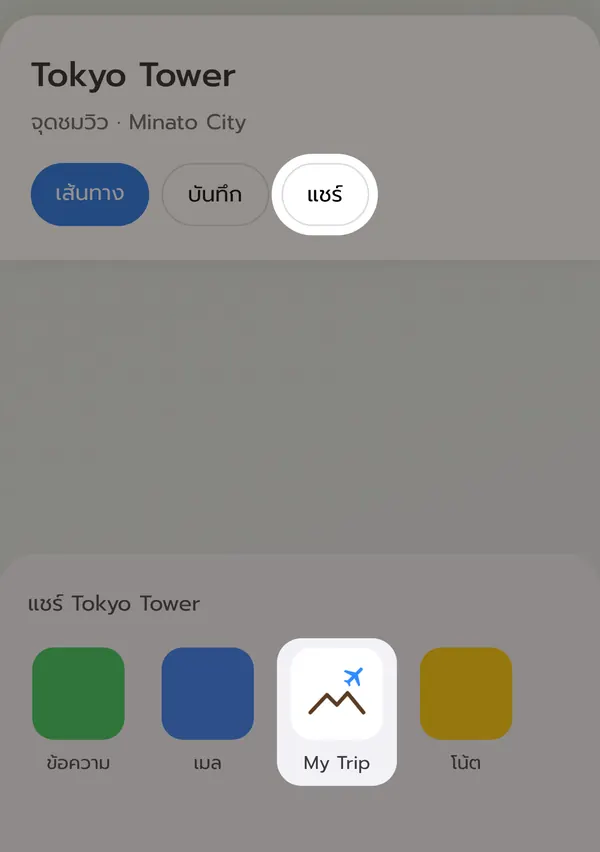
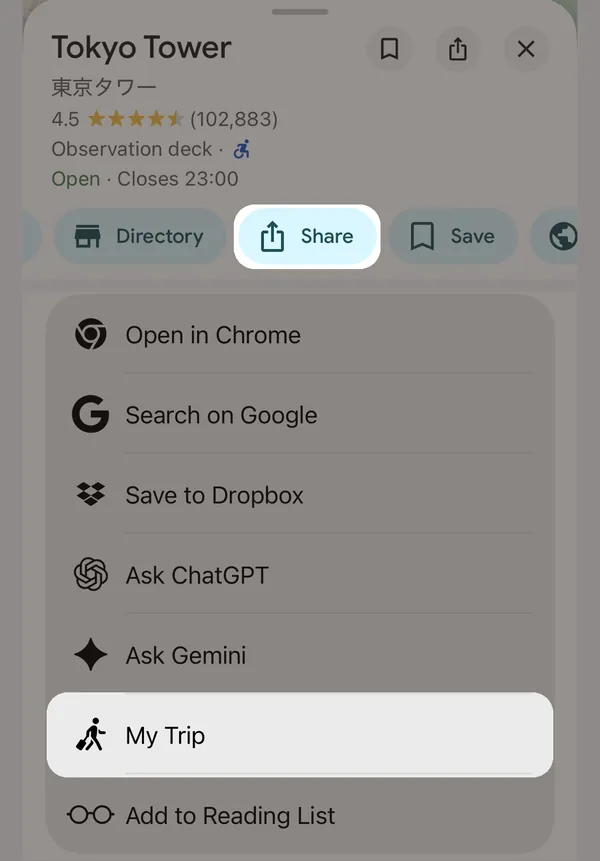
How-to guide: trip first then bookings then Google Maps; finger-follow swipe that always settles; real Google Maps share picture
Claude-Session: https://claude.ai/code/session_015BRmtB3ykkZmhpqNqRbF5g

diff --git a/index.html b/index.html
@@ -209,8 +209,8 @@ html.kb .dock{bottom:calc(6px + var(--kb,0px))}
 .guide-card{width:100%;max-width:380px;max-height:calc(100% - 24px);background:var(--surface);border-radius:28px;box-shadow:0 18px 50px rgba(20,19,26,.28);display:flex;flex-direction:column;gap:12px;padding:14px 0 18px;overflow:hidden;animation:guideIn .22s ease-out}
 @keyframes guideIn{from{opacity:0;transform:translateY(10px) scale(.98)}to{opacity:1;transform:none}}
 .guide-top{display:flex;align-items:center;justify-content:space-between;min-height:30px;padding:0 18px}.guide-n{font-size:12.5px;color:var(--muted)}
-.guide-track{display:flex;overflow-x:auto;scroll-snap-type:x mandatory;-webkit-overflow-scrolling:touch;scrollbar-width:none;overscroll-behavior-x:contain;min-height:0}.guide-track::-webkit-scrollbar{display:none}
-.guide-slide{flex:0 0 100%;scroll-snap-align:center;scroll-snap-stop:always;display:flex;flex-direction:column;align-items:center;text-align:center;gap:6px;padding:0 18px;box-sizing:border-box}
+.guide-view{overflow:hidden;touch-action:pan-y;min-height:0}.guide-track{display:flex;will-change:transform}
+.guide-slide{flex:0 0 100%;display:flex;flex-direction:column;align-items:center;text-align:center;gap:6px;padding:0 18px;box-sizing:border-box;user-select:none;-webkit-user-select:none}
 .guide-slide img{width:100%;max-height:min(42vh,360px);aspect-ratio:390/560;object-fit:contain;border-radius:18px;background:var(--tile);box-shadow:inset 0 0 0 1px var(--line)}
 .guide-slide h2{margin:8px 0 0;font-family:var(--display);font-size:19px;font-weight:500}.guide-slide p{margin:0;color:var(--muted);font-size:13.5px;line-height:1.55}
 .guide-dots{display:flex;justify-content:center;gap:5px}.guide-dots i{width:6px;height:6px;border-radius:99px;background:var(--line);transition:width .2s,background .2s}.guide-dots i.on{width:18px;background:var(--accent)}
@@ -1134,7 +1134,7 @@ async function refreshTrip(id){
     s.style.transition=anim?'opacity .2s,transform .25s ease':'none';s.style.opacity=d>14?Math.min(1,(d-14)/30):0;s.style.transform=`translateY(${Math.max(0,d/2-11)}px)`;
     s.classList.toggle('spin',loading);c.setAttribute('stroke-dasharray',loading?'70 100':`${Math.min(80,d/GO*80)} 100`);s.classList.toggle('ready',d>=GO&&!loading);};
   document.addEventListener('touchstart',e=>{y0=null;dy=0;if(busy||e.touches.length!==1||window.scrollY>2||!page())return;
-    if(document.querySelector('.scrim')||e.target.closest?.('.dock-body,.sheet,.dock.open,input,textarea,select,.exp-seg,[data-swipe],[data-guide-track]'))return;
+    if(document.querySelector('.scrim')||e.target.closest?.('.dock-body,.sheet,.dock.open,input,textarea,select,.exp-seg,[data-swipe],[data-guide-view]'))return;
     y0=e.touches[0].clientY;t0=Date.now();},{passive:true});
   document.addEventListener('touchmove',e=>{if(y0==null)return;const d=e.touches[0].clientY-y0;
     if(d<=0||window.scrollY>2||(dy===0&&Date.now()-t0>350)){y0=null;if(dy)show(0,{anim:true});dy=0;return;}   // a long press is a drag, not a pull
@@ -2352,43 +2352,56 @@ function shareSection(){
 }
 /* how to use the app: picture cards shown once to a new person, then kept in the profile sheet */
 const GUIDE = [
-  {t:"เชื่อมกับ Google Maps", d:"กดรูปโปรไฟล์มุมขวาบน → “แชร์เข้าทริป” แล้วทำตามขั้นตอน ทำครั้งเดียว"},
-  {t:"แชร์สถานที่เข้าทริป", d:"ใน Google Maps กด “แชร์” → เลือก My Trip สถานที่จะไปอยู่ในแท็บวางแผน"},
-  {t:"สร้างทริป", d:"กด “สร้างทริป” ใส่ชื่อ และวันไป–กลับ"},
-  {t:"ใส่ตั๋วและที่พัก", d:"แท็บข้อมูล → “เพิ่ม” เลือกรูปหรือ PDF ใบจอง แอปอ่านแล้วใส่ในแผนให้"},
-  {t:"ใส่ที่เที่ยวลงวัน", d:"แท็บวางแผน เลือกวันด้านบน แล้วกด + ที่สถานที่"},
-  {t:"ตั้งเวลา · เรียงลำดับ", d:"แตะเวลาเพื่อตั้งเวลา · กดค้างที่สถานที่แล้วลากเพื่อเรียงใหม่"},
-  {t:"เลือกการเดินทาง", d:"แตะช่องระหว่างสถานที่ แอปหาเส้นทางไว้ให้แล้ว เลือกแบบที่ชอบ"},
-  {t:"ให้ AI ช่วย", d:"แท็บ AI แนะนำที่เที่ยวใกล้แผน หรือรีวิวแผนทั้งวัน"},
-  {t:"ส่งออกเป็นรูป", d:"กด ⋯ มุมขวาบนของทริป → “ส่งออกแผนเที่ยว” ได้ทั้งรูปและ PDF"}
+  {img:3, t:"สร้างทริป", d:"กด “สร้างทริป” ใส่ชื่อ และวันไป–กลับ"},
+  {img:4, t:"ใส่ตั๋วและที่พัก", d:"แท็บข้อมูล → “เพิ่ม” เลือกรูปหรือ PDF ใบจองตั๋วเครื่องบินและโรงแรม แอปอ่านแล้วใส่ในแผนให้"},
+  {img:1, t:"เชื่อมกับ Google Maps", d:"กดรูปโปรไฟล์มุมขวาบน → “แชร์เข้าทริป” แล้วทำตามขั้นตอน ทำครั้งเดียว"},
+  {img:2, t:"แชร์สถานที่เข้าทริป", d:"ใน Google Maps กด “Share” → เลื่อนลงแล้วกด “My Trip” สถานที่จะไปอยู่ในแท็บวางแผน"},
+  {img:5, t:"ใส่ที่เที่ยวลงวัน", d:"แท็บวางแผน เลือกวันด้านบน แล้วกด + ที่สถานที่"},
+  {img:6, t:"ตั้งเวลา · เรียงลำดับ", d:"แตะเวลาเพื่อตั้งเวลา · กดค้างที่สถานที่แล้วลากเพื่อเรียงใหม่"},
+  {img:7, t:"เลือกการเดินทาง", d:"แตะช่องระหว่างสถานที่ แอปหาเส้นทางไว้ให้แล้ว เลือกแบบที่ชอบ"},
+  {img:8, t:"ให้ AI ช่วย", d:"แท็บ AI แนะนำที่เที่ยวใกล้แผน หรือรีวิวแผนทั้งวัน"},
+  {img:9, t:"ส่งออกเป็นรูป", d:"กด ⋯ มุมขวาบนของทริป → “ส่งออกแผนเที่ยว” ได้ทั้งรูปและ PDF"}
 ];
 function vGuide(s){
-  const n = GUIDE.length;
+  const n = GUIDE.length, i = Math.max(0, Math.min(n - 1, s.pos || 0)), last = i === n - 1;
   return `<div class="scrim guide-scrim" data-act="guide-done"><div class="guide-card" role="dialog" aria-modal="true" aria-label="วิธีใช้ My Trip" data-stop="1">
-    <div class="guide-top"><span class="guide-n">1/${n}</span><button class="link-btn" data-act="guide-done">ข้าม</button></div>
-    <div class="guide-track" data-guide-track>${GUIDE.map((g, i) => `<section class="guide-slide" aria-label="${i + 1} จาก ${n}">
-      <img src="guide/${i + 1}.webp?v=2" alt="" width="300" height="280" ${i > 1 ? 'loading="lazy"' : ''} decoding="async">
-      <h2>${g.t}</h2><p>${g.d}</p></section>`).join("")}</div>
-    <div class="guide-dots" aria-hidden="true">${GUIDE.map((_, i) => `<i class="${i ? "" : "on"}"></i>`).join("")}</div>
-    <div class="guide-btns"><button type="button" class="btn ghost" data-act="guide-step" data-d="-1" disabled>ย้อนกลับ</button><button type="button" class="btn primary" data-act="guide-step" data-d="1">ถัดไป</button></div>
+    <div class="guide-top"><span class="guide-n">${i + 1}/${n}</span><button class="link-btn" data-act="guide-done" style="${last ? "visibility:hidden" : ""}">ข้าม</button></div>
+    <div class="guide-view" data-guide-view><div class="guide-track" style="transform:translateX(${-i * 100}%)">${GUIDE.map((g, k) => `<section class="guide-slide" aria-label="${k + 1} จาก ${n}" ${k === i ? "" : 'aria-hidden="true"'}>
+      <img src="guide/${g.img}.webp?v=3" alt="" width="300" height="280" decoding="async" draggable="false">
+      <h2>${g.t}</h2><p>${g.d}</p></section>`).join("")}</div></div>
+    <div class="guide-dots" aria-hidden="true">${GUIDE.map((_, k) => `<i class="${k === i ? "on" : ""}"></i>`).join("")}</div>
+    <div class="guide-btns"><button type="button" class="btn ghost" data-act="guide-step" data-d="-1" ${i ? "" : "disabled"}>ย้อนกลับ</button><button type="button" class="btn primary" data-act="${last ? "guide-done" : "guide-step"}" data-d="1">${last ? "เริ่มใช้งาน" : "ถัดไป"}</button></div>
   </div></div>`;
 }
-/* the cards scroll natively (smooth, with momentum); dots and buttons follow the card in view */
-function guideSync(track){
-  const card = track.closest(".guide-card"); if(!card) return;
-  const i = Math.round(track.scrollLeft / Math.max(1, track.clientWidth)), last = i >= GUIDE.length - 1;
-  if(S.sheet?.kind === "guide") S.sheet.pos = i;
-  card.querySelectorAll(".guide-dots i").forEach((d, n) => d.classList.toggle("on", n === i));
-  card.querySelector(".guide-n").textContent = (i + 1) + "/" + GUIDE.length;
+/* the cards follow the finger and always settle on one card (no stopping halfway) */
+function guideGo(i){
+  const s = S.sheet; if(s?.kind !== "guide") return;
+  s.pos = Math.max(0, Math.min(GUIDE.length - 1, i));
+  const card = document.querySelector(".guide-card"), tr = card?.querySelector(".guide-track"); if(!tr){ render(); return; }
+  const n = GUIDE.length, last = s.pos === n - 1;
+  tr.style.transition = "transform .3s cubic-bezier(.2,.8,.2,1)"; tr.style.transform = `translateX(${-s.pos * 100}%)`;
+  card.querySelectorAll(".guide-slide").forEach((x, k) => k === s.pos ? x.removeAttribute("aria-hidden") : x.setAttribute("aria-hidden", "true"));
+  card.querySelectorAll(".guide-dots i").forEach((d, k) => d.classList.toggle("on", k === s.pos));
+  card.querySelector(".guide-n").textContent = (s.pos + 1) + "/" + n;
   const [back, next] = card.querySelectorAll(".guide-btns .btn");
-  back.disabled = i === 0; next.textContent = last ? "เริ่มใช้งาน" : "ถัดไป"; next.dataset.act = last ? "guide-done" : "guide-step";
+  back.disabled = s.pos === 0; next.textContent = last ? "เริ่มใช้งาน" : "ถัดไป"; next.dataset.act = last ? "guide-done" : "guide-step";
   card.querySelector(".guide-top .link-btn").style.visibility = last ? "hidden" : "";
 }
-document.addEventListener("scroll", e => { const t = e.target; if(t?.matches?.("[data-guide-track]")) guideSync(t); }, true);
-document.addEventListener("scrollend", e => { const t = e.target; if(t?.matches?.("[data-guide-track]")) guideSync(t); }, true);
+{ let gx = null, gy = 0, gt = 0, dx = 0, horiz = null;
+  document.addEventListener("touchstart", e => { const v = e.target.closest?.("[data-guide-view]"); gx = v && e.touches.length === 1 ? e.touches[0].clientX : null; gy = gx == null ? 0 : e.touches[0].clientY; gt = Date.now(); dx = 0; horiz = null; }, {passive:true});
+  document.addEventListener("touchmove", e => { if(gx == null || S.sheet?.kind !== "guide") return;
+    const x = e.touches[0].clientX - gx, y = e.touches[0].clientY - gy;
+    if(horiz == null && (Math.abs(x) > 6 || Math.abs(y) > 6)) horiz = Math.abs(x) > Math.abs(y);
+    if(!horiz) return; dx = x; const tr = document.querySelector(".guide-track"), i = S.sheet.pos || 0;
+    const edge = (i === 0 && dx > 0) || (i === GUIDE.length - 1 && dx < 0) ? .35 : 1;   // resist past the first and last card
+    if(tr){ tr.style.transition = "none"; tr.style.transform = `translateX(calc(${-i * 100}% + ${dx * edge}px))`; } }, {passive:true});
+  const end = () => { if(gx == null) return; gx = null; if(!horiz || S.sheet?.kind !== "guide") return;
+    const w = document.querySelector("[data-guide-view]")?.clientWidth || 300, fast = Math.abs(dx) / Math.max(1, Date.now() - gt) > .45;
+    const step = Math.abs(dx) > w * .22 || (fast && Math.abs(dx) > 24) ? (dx < 0 ? 1 : -1) : 0; guideGo((S.sheet.pos || 0) + step); };
+  document.addEventListener("touchend", end, {passive:true}); document.addEventListener("touchcancel", end, {passive:true}); }
 function guideMaybe(){
   let seen = true; try { seen = !!localStorage.getItem("mytrip-guide-seen"); } catch(_){}
-  if(!seen && S.view === "home" && !S.sheet && S.token){ S.sheet = {kind:"guide", step:0}; render(); }
+  if(!seen && S.view === "home" && !S.sheet && S.token){ S.sheet = {kind:"guide", pos:0}; render(); }
 }
 function vAccount(){
   return `<div class="scrim" data-act="close-sheet"><div class="sheet" role="dialog" aria-modal="true" aria-label="บัญชี" data-stop="1">
@@ -3272,7 +3285,6 @@ function render(){
   lockOverlayPage(overlayLocked);document.documentElement.classList.toggle("lock",overlayLocked);   // measure the pinned header before anything stops the page scrolling
   document.body.style.overflow = modalSheet ? "hidden" : "";
   if(S.sheet && S.sheet.kind === "doc") docMount();
-  if(S.sheet?.kind === "guide" && S.sheet.pos){ const gt = document.querySelector("[data-guide-track]"); if(gt){ gt.scrollLeft = S.sheet.pos * gt.clientWidth; guideSync(gt); } }
   if(S.view === "login") mountGoogleButton();
   fitAreas(); updateSync();fitPlannerPanel();
 }
@@ -3591,7 +3603,6 @@ document.addEventListener('touchstart',e=>{overlayTouchY=e.touches[0]?.clientY||
 function overlayTouchMove(e){
   if(!document.documentElement.classList.contains("lock"))return;
   if(e.target.closest?.(".doc-body"))return;   // the ticket viewer scrolls (and zooms) on its own
-  if(e.target.closest?.("[data-guide-track]"))return;   // the how-to pictures swipe sideways
   const compose=e.target.closest?.('.idea-compose-sheet');
   if(compose){
     const y=e.touches?.[0]?.clientY??overlayTouchY,dy=y-overlayTouchY;overlayTouchY=y;
@@ -4163,8 +4174,8 @@ document.addEventListener("click", async e => {
     case "clear-open": S.sheet = {kind:"clear", scope:"day"}; render(); break;
     case "clear-scope": S.sheet.scope = el.dataset.k; render(); break;
     case "clear-run": clearPlan();break;
-    case "guide-open": S.sheet = {kind:"guide", step:0}; render(); break;
-    case "guide-step": { const tr = document.querySelector("[data-guide-track]"); if(!tr) break; const w = tr.clientWidth || 1, i = Math.max(0, Math.min(GUIDE.length - 1, Math.round(tr.scrollLeft / w) + Number(el.dataset.d || 1))); tr.scrollTo({left: i * w, behavior: "smooth"}); break; }
+    case "guide-open": S.sheet = {kind:"guide", pos:0}; render(); break;
+    case "guide-step": guideGo((S.sheet?.pos || 0) + Number(el.dataset.d || 1)); break;
     case "guide-done": try { localStorage.setItem("mytrip-guide-seen", "1"); } catch(_){} if(S.sheet?.kind === "guide"){ S.sheet = null; render(); } break;
     case "copy-share": {
       const s = S.sheet = {kind:"copy-share", key:"", err:""}; render();
@@ -4331,7 +4342,7 @@ async function logout(){
 
 /* ---------- boot ---------- */
 /* phones keep an old copy of the page; reload once when a newer one is online */
-const BUILD = "2026-11-14-guide4";
+const BUILD = "2026-11-14-guide5";
 async function checkUpdate(){
   if(location.protocol !== "https:") return;
   try {
